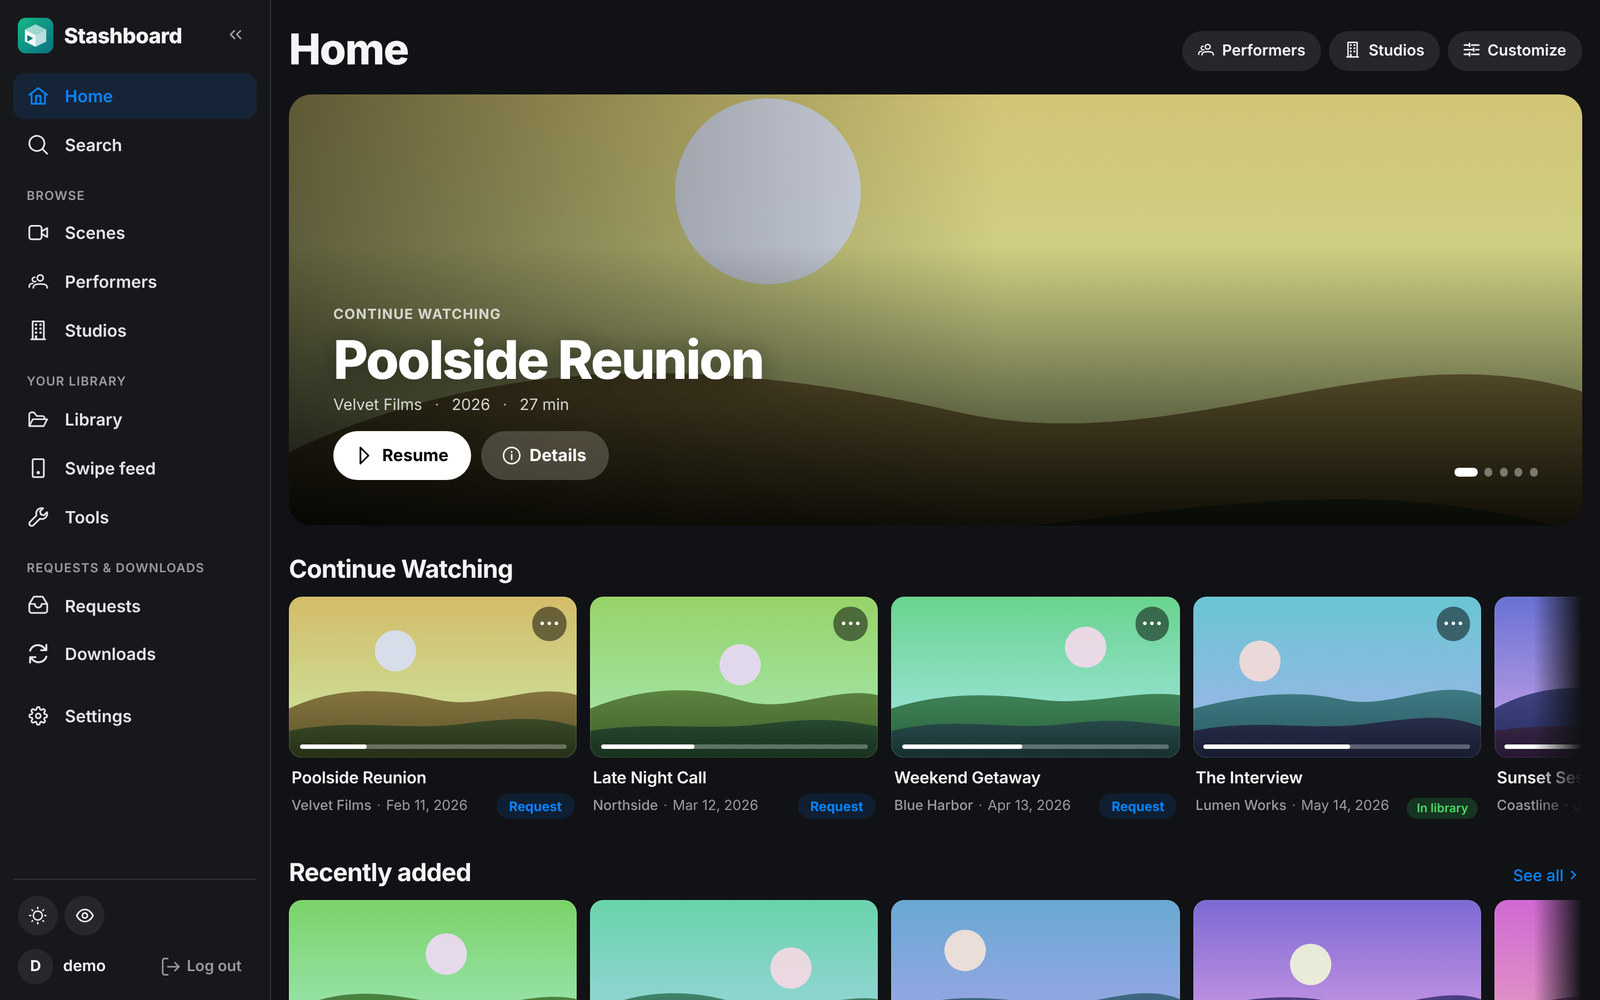
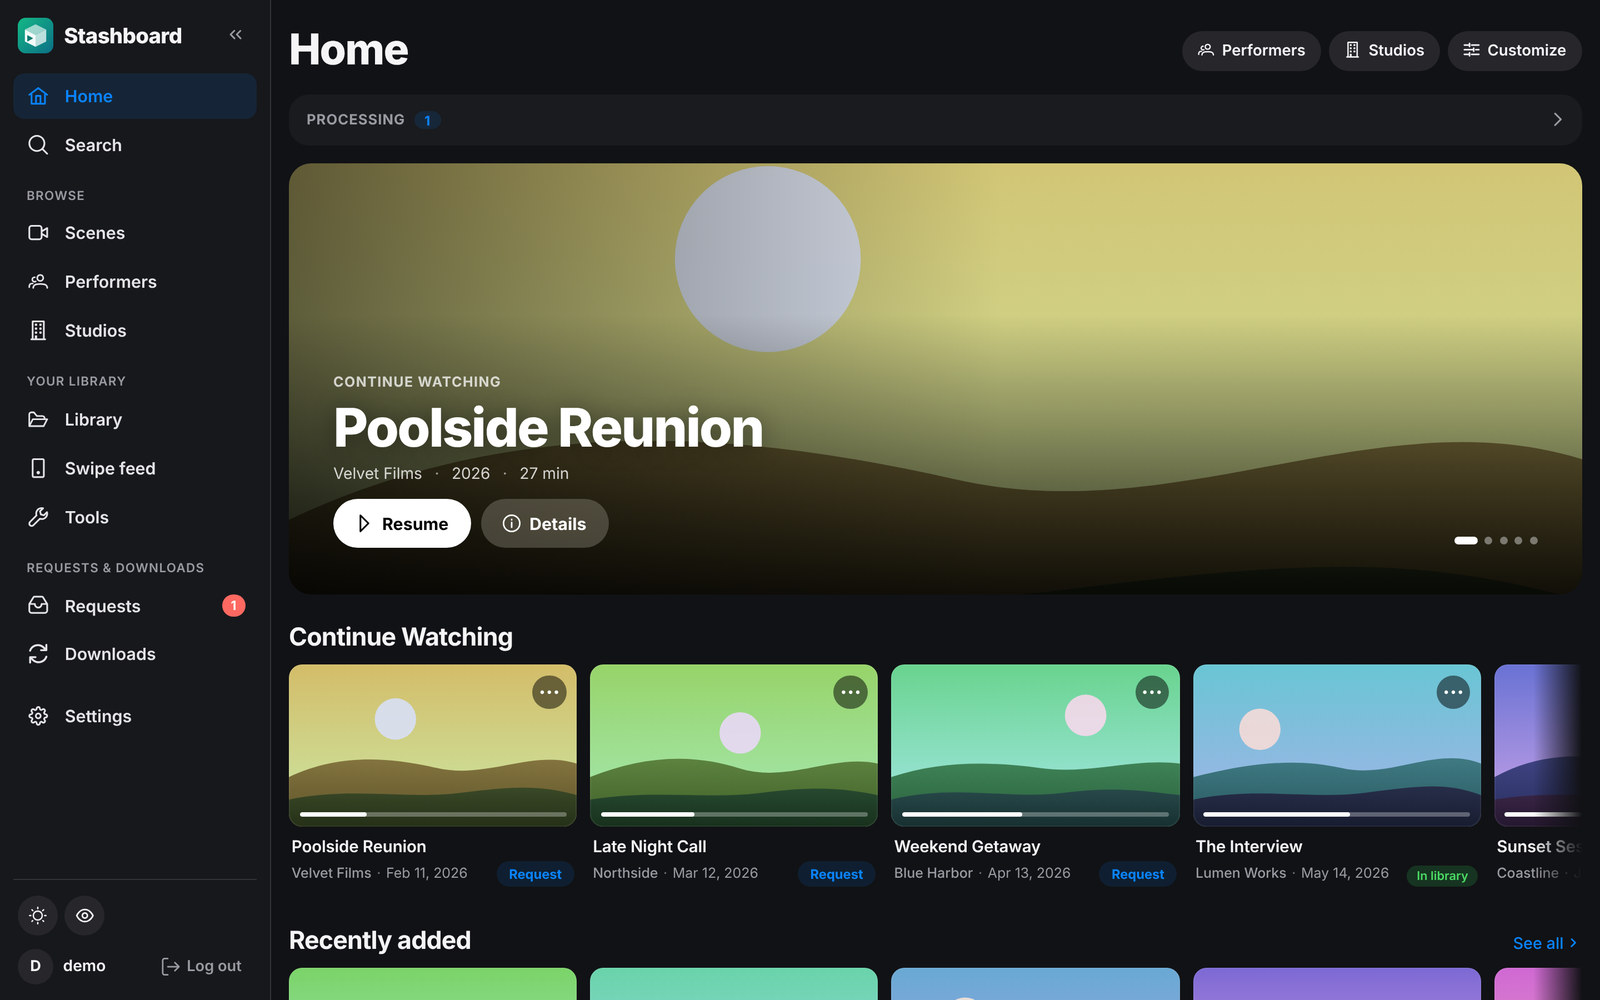
fix(web): section buttons keep their size on phones
"Downloads" and "Check these" stretched to the full width when a
Requests section header stacked on a phone. README screenshots are
retaken to show the current Requests page.

diff --git a/apps/sp-web/src/app/pages/acquisition/acquisition-page.component.scss b/apps/sp-web/src/app/pages/acquisition/acquisition-page.component.scss
@@ -696,3 +696,10 @@ a {
     gap: 0.4rem;
   }
 }
+
+/* Section buttons ("Downloads", "Check these") keep their size when the
+   header stacks on phones. */
+.lifecycle-section-head > .secondary-action {
+  align-self: flex-start;
+  width: auto;
+}
